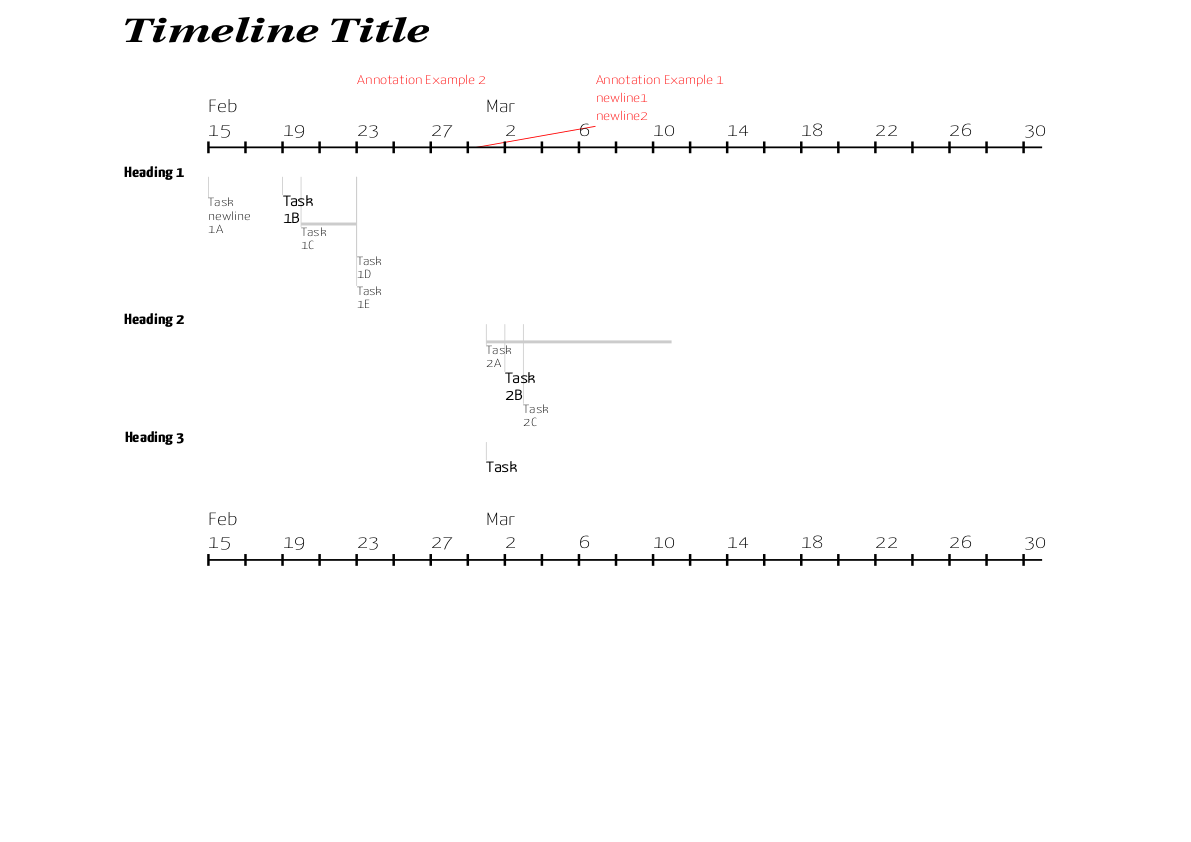
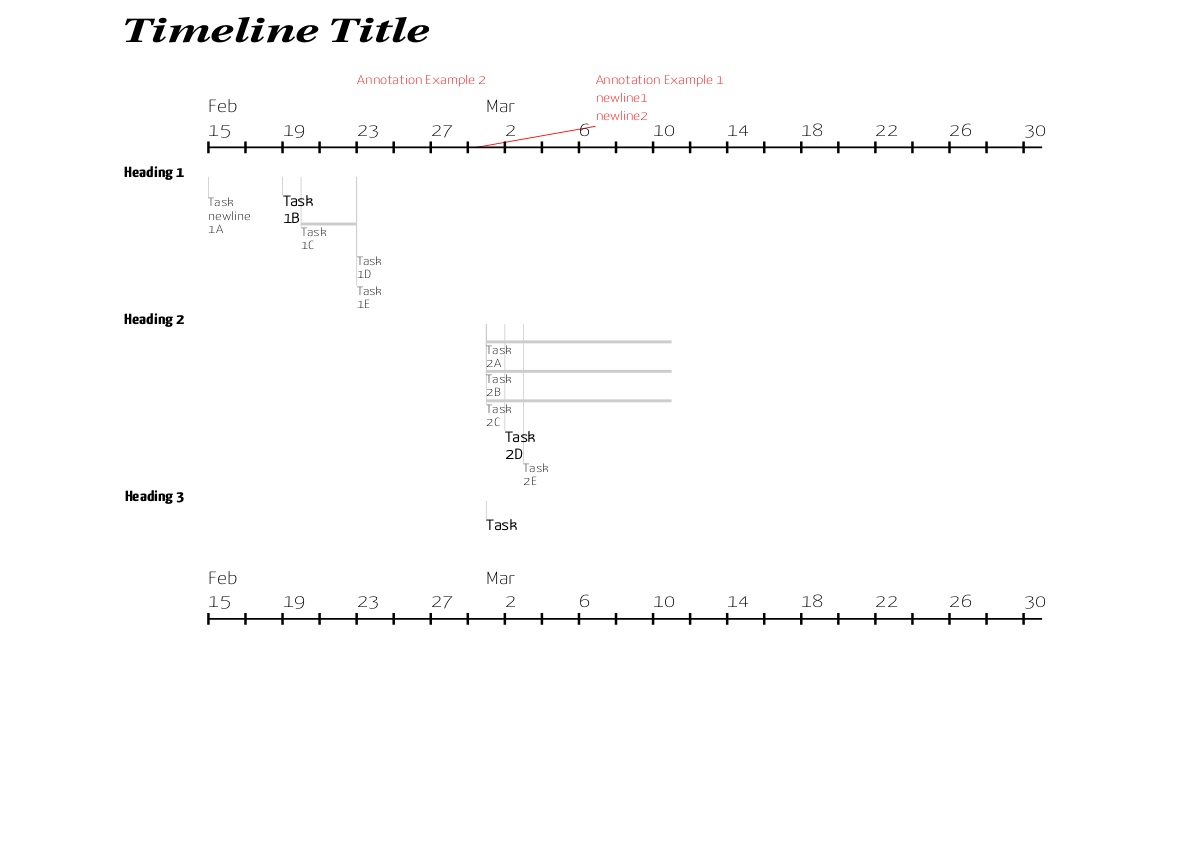
added three point estimate for task durations

diff --git a/timeline.py b/timeline.py
@@ -186,17 +186,26 @@ class Tasks:
             self._set_task_text(text, annotation, x, y, height)
         return self.height
 def fix_month(month, milestone):
-    return lambda duration=0: \
+    return lambda expected=None, pessimistic=None, optimistic=None: \
            lambda name, date, annotation="", vPos=None: (name, annotation,
                                                          (date, month),
-                                                         duration, milestone,
+                                                         ((pessimistic
+                                                           or expected
+                                                           or 0)
+                                                          + 4 * (expected or 0)
+                                                          + (optimistic
+                                                             or expected
+                                                             or 0)) / 6,
+                                                         milestone,
                                                          vPos)
 def milestone(month):
     return fix_month(month, True)()
 def task(month):
-    return lambda name, date, duration=0, \
-                  annotation="": fix_month(month, False)(duration)(name, date,
-                                                                   annotation)
+    return lambda name, date, annotation="", \
+                  expected=None, pessimistic=None, optimistic=None: \
+                  fix_month(month, False)(expected,
+                                          pessimistic,
+                                          optimistic)(name, date, annotation)
 def draw_all(title, annotations, tasks, vPos0=0.05,
              xTranslate=0.25, yTranslate=0.25, lowerTimelinePadding=0.1):
     with Surface() as surface:
@@ -226,9 +235,11 @@ def examples():
           ("Task", "1D", (23, 2)),
           ("Task", "1E", (23, 2)))), # helper functions used below
         ("Heading 2",
-         (t3("Task", 1, 10, "2A"),
-          m3("Task", 2, "2B"),
-          t3("Task", 3, 0, "2C"))),
+         (t3("Task", 1, "2A", 10, 10, 10), # 3 ways to get duration=10
+          t3("Task", 1, "2B", 10, 5, 15),
+          t3("Task", 1, "2C", 10),
+          m3("Task", 2, "2D"),
+          t3("Task", 3, "2E"))),
         ("Heading 3",
          (m3("Task", 1),)))
     draw_all(title, annotations, tasks)
